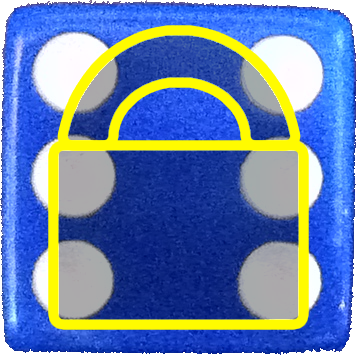
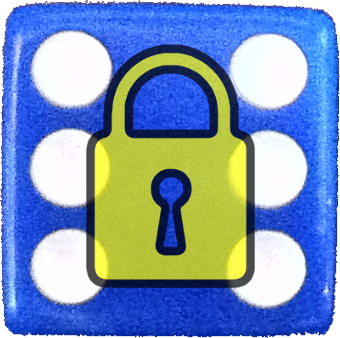
Improved selected-die images, and now in all six colors as well.

diff --git a/Sixis/SixisDieView.m b/Sixis/SixisDieView.m
@@ -35,7 +35,7 @@
         NSString *colorName = [SixisDieView nameForColor:die.color];
 
         NSString *dieImage = [NSString stringWithFormat:@"Die%@%d", colorName, [die value]];
-        NSString *selectedImage = [NSString stringWithFormat:@"DieBlueSelected%d", [die value]];
+        NSString *selectedImage = [NSString stringWithFormat:@"Die%@Selected%d", colorName,[die value]];
         UIImage *image = [UIImage imageNamed:dieImage];
         [self setImage:image forState:UIControlStateNormal];
         [self setImage:[UIImage imageNamed:selectedImage] forState:UIControlStateSelected];
@@ -65,13 +65,5 @@
     return colorName;
 }
 
-/*
-// Only override drawRect: if you perform custom drawing.
-// An empty implementation adversely affects performance during animation.
-- (void)drawRect:(CGRect)rect
-{
-    // Drawing code
-}
-*/
 
 @end
